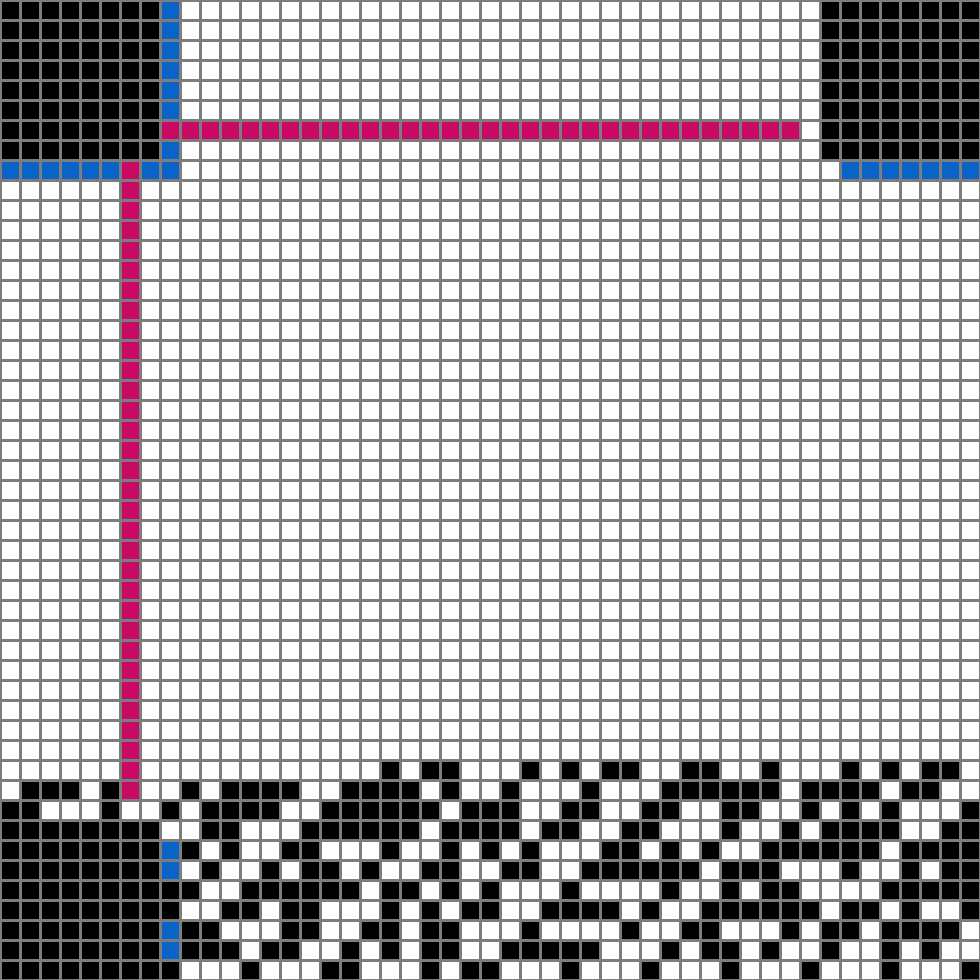
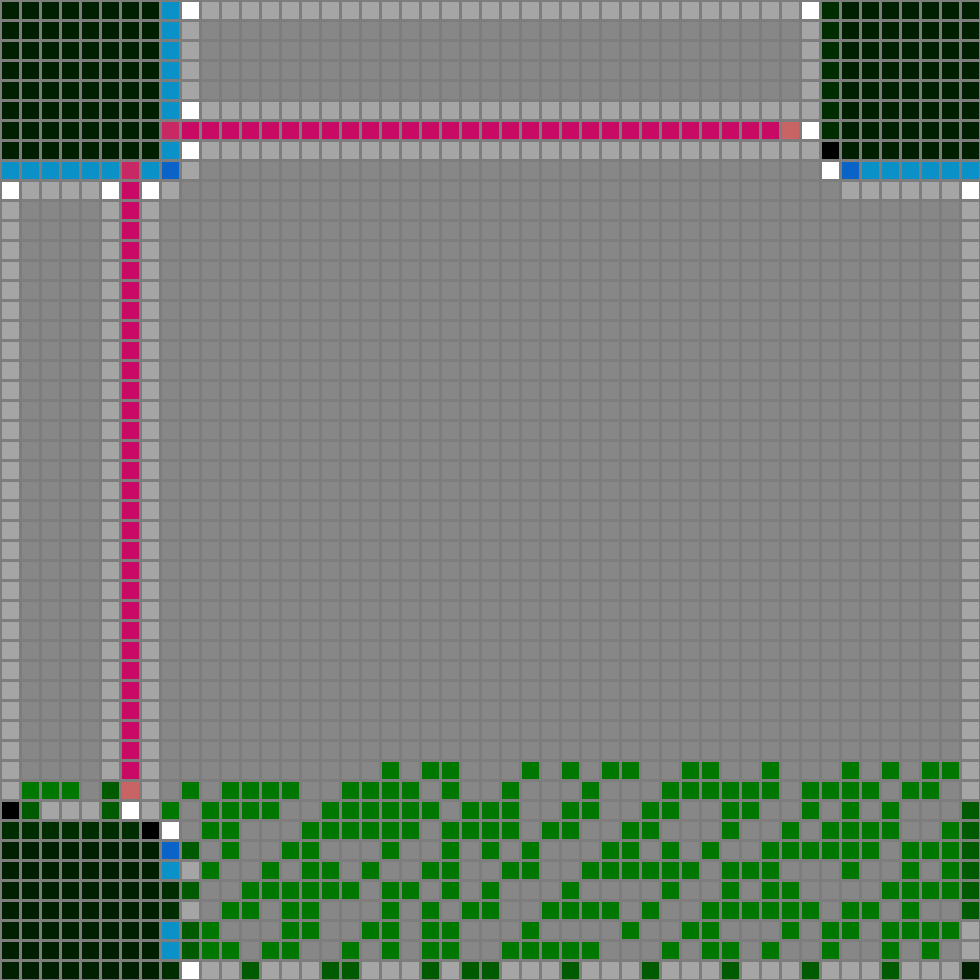
heat map the grid for better understanding on how to map the bits right

diff --git a/src/grid/grid.rs b/src/grid/grid.rs
@@ -76,8 +76,14 @@ pub struct Cell {
     pub is_format: bool,
     pub x: usize,
     pub y: usize,
+    pub paths: usize
 }
 
+impl Cell {
+    pub fn is_free(&self) -> bool {
+        !self.is_fixed && self.is_empty && !self.is_format && !self.is_bridge
+    }
+}
 
 pub struct Row {
     pub cells: Vec<Cell>
@@ -89,19 +95,30 @@ pub struct Grid {
 
 
 impl Grid {
-    fn set_cell(&mut self, index: usize, is_bit: bool) -> usize {
+    fn set_cell(&mut self, index: usize, is_bit: bool)  {
         let (x, y) = ((index / 49), index % 49);
         let mut row = self.rows.get_mut(x).unwrap();
         let mut cell = row.cells.get_mut(y).unwrap();
         cell.is_bit = is_bit;
-        1
-
     }
 
-    fn get_neighboring_cells(&self, index: usize) {
+    fn set_number_pathways_for_cell(&mut self, x: usize, y: usize, count: usize) {
+        match self.rows.get_mut(x) {
+            Some(row) => {
+                match row.cells.get_mut(y) {
+                    Some(cell) => cell.paths += count,
+                    None => {}
+                }
+            },
+            None => {}
+        }
+    }
+
+    pub fn get_neighboring_cells(&mut self, index: usize) {
         let point: Coord = Coord { x: index / 49, y: index % 49 };
         let size = 49 * 49;
         let shift_operators = "< > - +";
+        let mut pathways_for_point = 0;
         for c in shift_operators.chars() {
             let pt: Option<(usize, usize)> = match c {
                 '>' => point << 1,
@@ -111,11 +128,31 @@ impl Grid {
                  _  => None
             };
 
+
+
             if pt.is_some() {
                 let (x, y) = pt.unwrap();
                 println!("X: {}, Y: {}", x, y);
+
+                let row = self.rows.get(x);
+                match row {
+                    Some(row) => {
+                        let cell = row.cells.get(y);
+                        match cell {
+                            Some(cell) => {
+                                if cell.is_free() {
+                                    pathways_for_point += 1;
+                                }
+                            },
+                            None => {}
+                        }
+                    },
+                    None => {}
+                }
             }
         }
+
+        self.set_number_pathways_for_cell(point.x, point.y, pathways_for_point);
     }
 
     fn push(&mut self, x: usize, y: usize, size: usize) {
@@ -173,7 +210,8 @@ fn create_cell(x: usize, y: usize, size: usize) -> Cell {
         is_filled: false,
         is_format: is_format_area(x, y, size - 1),
         x: y,
-        y: x
+        y: x,
+        paths: 0
     }
 }
 
@@ -190,13 +228,16 @@ pub fn create_grid(size: usize, mask: u8, qr_version: u8) -> Grid {
     }
     grid
 }
+//
+// fn update_adjacent_cells(grid: &mut Grid, current_cell: &Cell) -> Cell {
+//
+// }
 
 pub fn encode_byte(byte: u8, grid: &mut Grid, index: &mut usize) {
     let mut i = 7;
     while i >= 0 {
         {
             let xbit = byte & (1 << i);
-            grid.get_neighboring_cells(10);
             grid.set_cell(*index, xbit == 0);
             // index -= pick_next_index(index);
             i -= 1;

diff --git a/src/main.rs b/src/main.rs
@@ -40,16 +40,23 @@ fn get_pixel_points(cell: &Cell) -> Vec<(u32, u32, Color)> {
                 _ => true
             };
             let color: Color;
+            let shader = match cell.paths {
+                0 => 30,
+                1 => 45,
+                3 => 90,
+                4 => 120,
+                _ => 0
+            };
             if x_border || y_border {
                 color = Color { r: 125, b: 125, g: 125 };
             } else if cell.is_fixed || cell.is_bit {
-                color = Color { r: 0, b: 0, g: 0 };
+                color = Color { r: 0, b: 0, g: 0 + shader };
             } else if cell.is_bridge {
-                color = Color { r: 200, b: 100, g: 10 };
+                color = Color { r: 200, b: 100, g: 10 + shader };
             } else if cell.is_format {
-                color = Color { r: 10, b: 200, g: 100 };
+                color = Color { r: 10, b: 200, g: 100 + shader };
             } else {
-                color = Color { r: 255, b: 255, g: 255 };
+                color = Color { r: 255 - shader, b: 255 - shader, g: 255 - shader };
             }
             pixels.push((col, row, color));
         }
@@ -68,6 +75,9 @@ fn main() {
     let message = String::from("www.wikipedia.org - here you can find junk and stuff and whatever");
     let mut img = ImageBuffer::new(49 * 20, 49 * 20);
     let mut starting_point = size - 1;
+    for i in 0..(size - 1) {
+        qr.get_neighboring_cells(i);
+    }
     for byte in message.into_bytes() {
         encode_byte(byte, &mut qr, &mut starting_point);
     }
